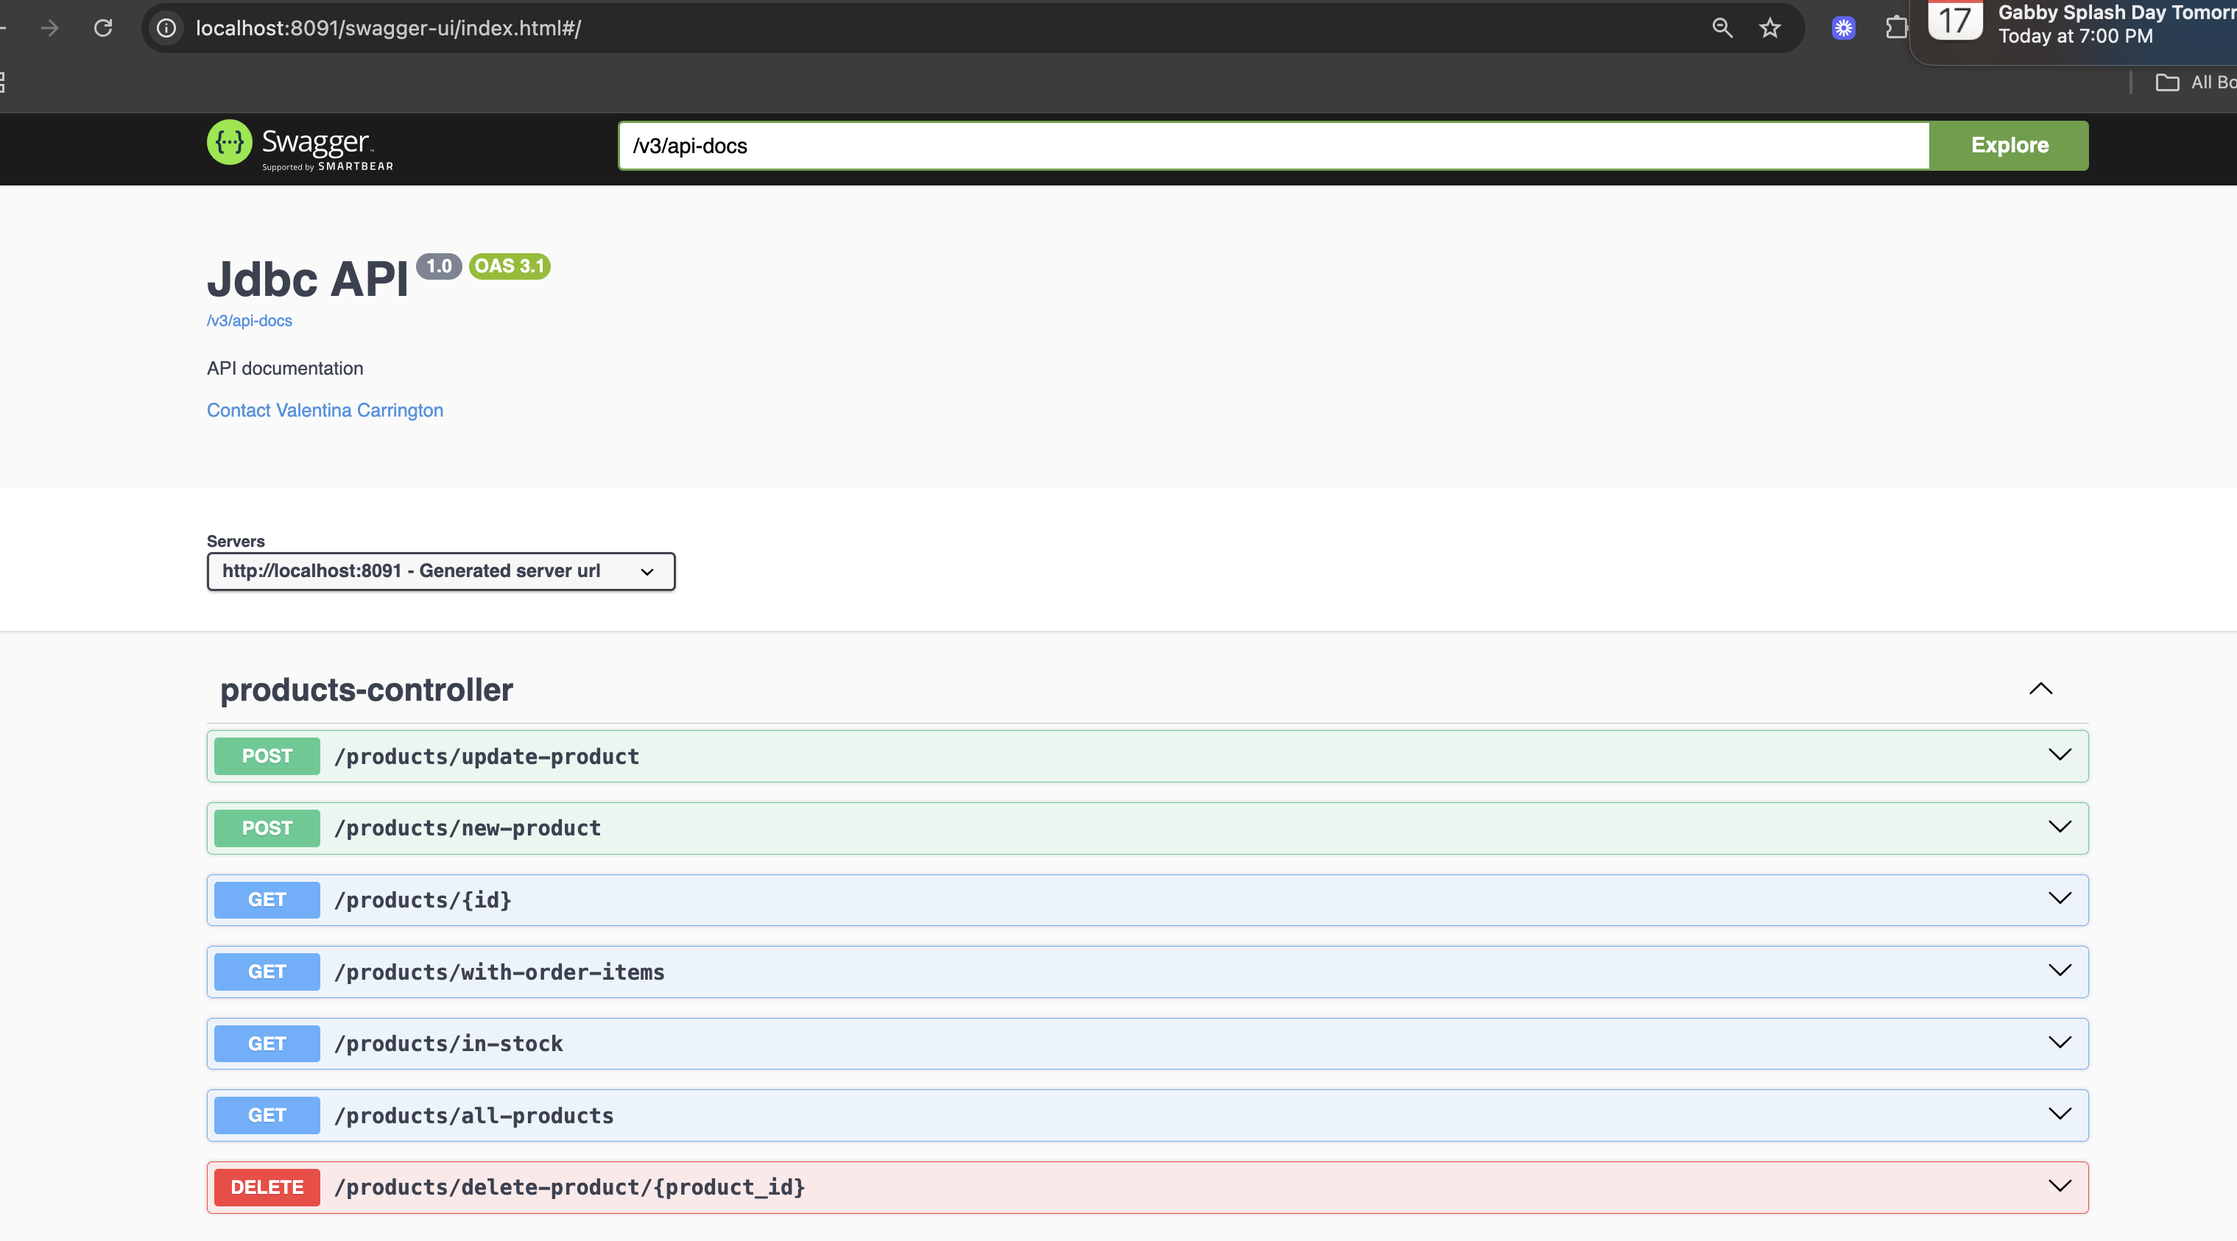
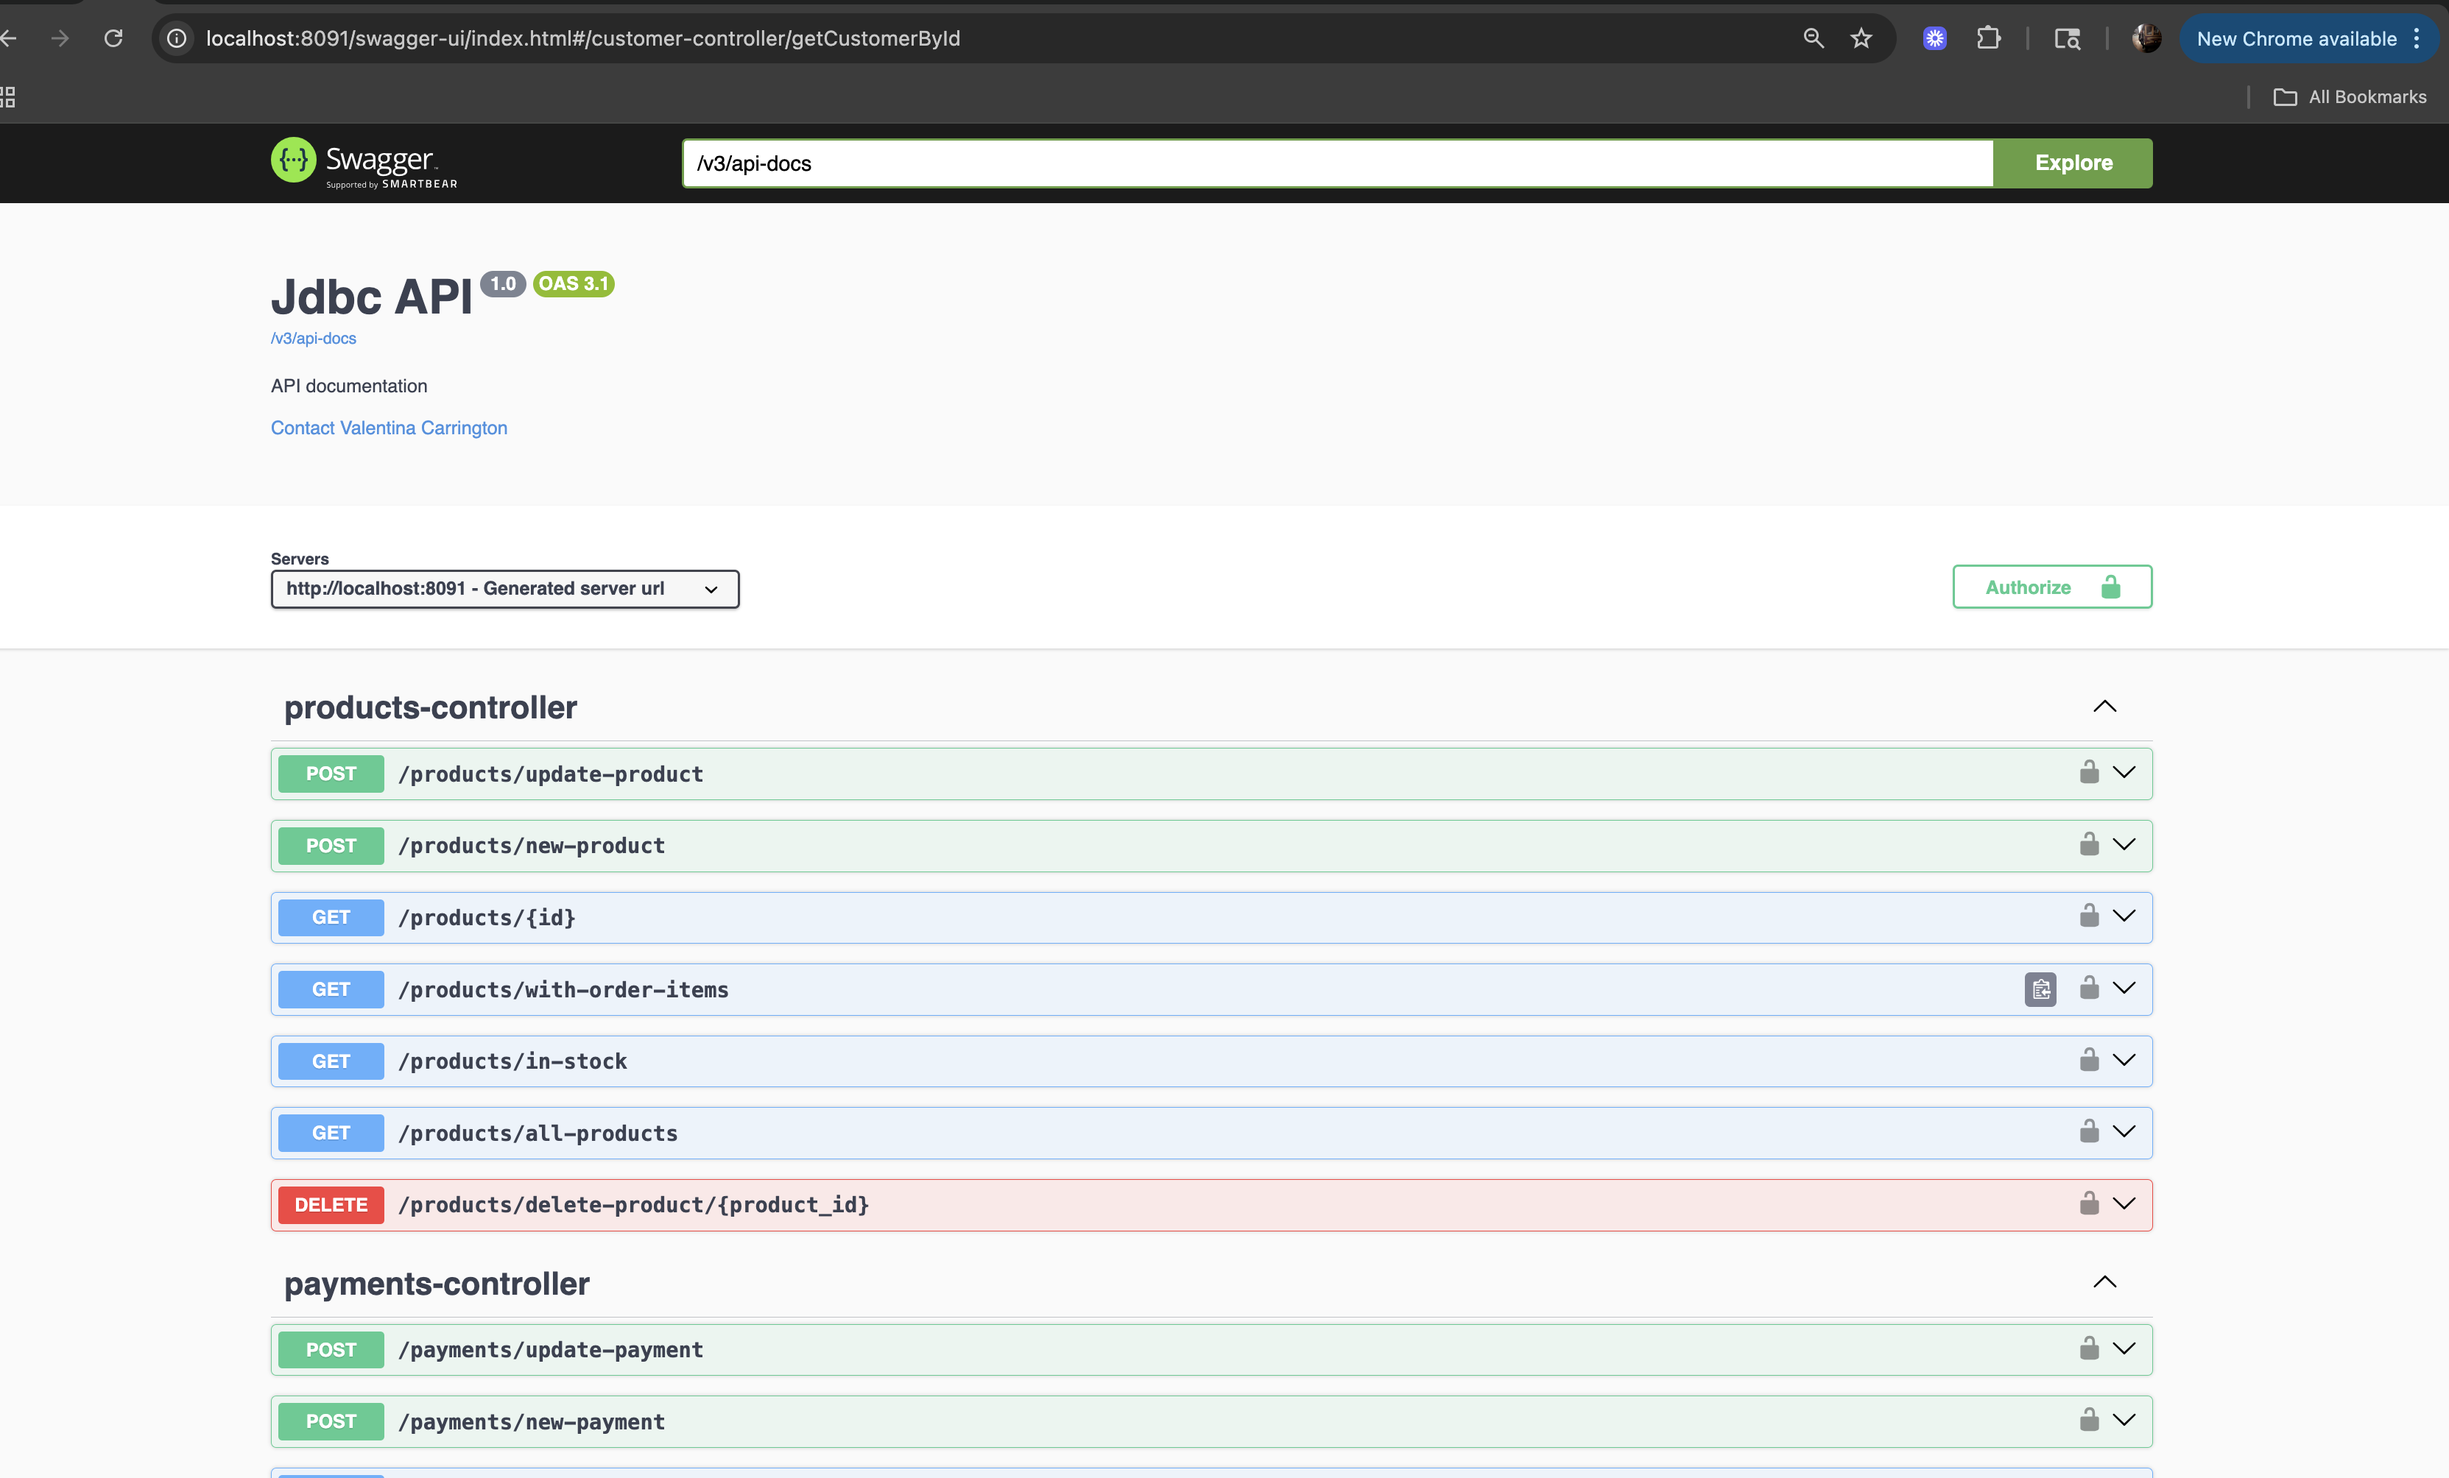
Added Auth0 authentication and authorization with JWT validation

diff --git a/src/main/java/com/vcarrin87/jdbc_example/config/SecurityConfig.java b/src/main/java/com/vcarrin87/jdbc_example/config/SecurityConfig.java
@@ -1,0 +1,39 @@
+package com.vcarrin87.jdbc_example.config;
+
+import static org.springframework.security.config.Customizer.withDefaults;
+
+import org.springframework.context.annotation.Bean;
+import org.springframework.context.annotation.Configuration;
+import org.springframework.security.config.annotation.web.builders.HttpSecurity;
+import org.springframework.security.config.http.SessionCreationPolicy;
+import org.springframework.security.oauth2.server.resource.web.BearerTokenAuthenticationEntryPoint;
+import org.springframework.security.oauth2.server.resource.web.access.BearerTokenAccessDeniedHandler;
+import org.springframework.security.web.SecurityFilterChain;
+
+@Configuration
+public class SecurityConfig {
+
+    @Bean
+    public SecurityFilterChain securityFilterChain(HttpSecurity http) throws Exception {
+        http
+            .csrf(csrt -> csrt.disable())
+            .authorizeHttpRequests(request -> request
+                .requestMatchers("/", "/swagger-ui/**", "/v3/api-docs/**").permitAll()
+                .requestMatchers(org.springframework.http.HttpMethod.GET, "/**").hasAnyAuthority("SCOPE_ADMIN", "SCOPE_USER")
+                .requestMatchers(org.springframework.http.HttpMethod.POST, "/**").hasAuthority("SCOPE_ADMIN")
+                .requestMatchers(org.springframework.http.HttpMethod.DELETE, "/**").hasAuthority("SCOPE_ADMIN")
+                .anyRequest().authenticated()
+            )
+            .sessionManagement(session -> session.sessionCreationPolicy(SessionCreationPolicy.STATELESS))
+            .exceptionHandling(exceptions -> 
+                exceptions
+                    .authenticationEntryPoint(new BearerTokenAuthenticationEntryPoint())
+                    .accessDeniedHandler(new BearerTokenAccessDeniedHandler())
+            )
+            .oauth2ResourceServer(oauth2 -> oauth2
+                .jwt(withDefaults())
+            );
+        return http.build();
+    }
+
+}

diff --git a/src/main/java/com/vcarrin87/jdbc_example/config/OpenApiConfig.java b/src/main/java/com/vcarrin87/jdbc_example/config/OpenApiConfig.java
@@ -3,9 +3,12 @@ package com.vcarrin87.jdbc_example.config;
 import org.springframework.context.annotation.Bean;
 import org.springframework.context.annotation.Configuration;
 
+import io.swagger.v3.oas.models.Components;
 import io.swagger.v3.oas.models.OpenAPI;
 import io.swagger.v3.oas.models.info.Contact;
 import io.swagger.v3.oas.models.info.Info;
+import io.swagger.v3.oas.models.security.SecurityRequirement;
+import io.swagger.v3.oas.models.security.SecurityScheme;
 
 @Configuration
 public class OpenApiConfig {
@@ -21,6 +24,13 @@ public class OpenApiConfig {
                 .title("Jdbc API")
                 .version("1.0")
                 .description("API documentation")
-                .contact(new Contact().name("Valentina Carrington").email("vcarrin87@gmail.com")));
+                .contact(new Contact().name("Valentina Carrington").email("vcarrin87@gmail.com")))
+            .components(new Components()
+                .addSecuritySchemes("bearerAuth",
+                    new SecurityScheme()
+                        .type(SecurityScheme.Type.HTTP)
+                        .scheme("bearer")
+                        .bearerFormat("JWT")))
+            .addSecurityItem(new SecurityRequirement().addList("bearerAuth"));
     }
 }

diff --git a/src/main/java/com/vcarrin87/jdbc_example/services/OrdersService.java b/src/main/java/com/vcarrin87/jdbc_example/services/OrdersService.java
@@ -10,6 +10,7 @@ import org.springframework.transaction.annotation.Transactional;
 
 import com.vcarrin87.jdbc_example.models.OrderItems;
 import com.vcarrin87.jdbc_example.models.Orders;
+import com.vcarrin87.jdbc_example.models.Payments;
 import com.vcarrin87.jdbc_example.repository.InventoryRepository;
 import com.vcarrin87.jdbc_example.repository.OrderItemsRepository;
 import com.vcarrin87.jdbc_example.repository.OrdersRepository;
@@ -140,7 +141,12 @@ public class OrdersService {
         // Add payment
         Timestamp paymentDate = new Timestamp(System.currentTimeMillis());
         log.info("Payment date: {}", paymentDate);
-        paymentsRepository.save(newOrderId, totalAmount, paymentDate, "CREDIT_CARD");
+        Payments payment = new Payments();
+        payment.setOrderId(newOrderId);
+        payment.setAmount(totalAmount);
+        payment.setPaymentDate(paymentDate);
+        payment.setPaymentMethod("CREDIT_CARD");
+        paymentsRepository.save(payment);
     
         log.info("Order placed successfully: {}", order);
     }

diff --git a/src/main/java/com/vcarrin87/jdbc_example/repository/PaymentsRepository.java b/src/main/java/com/vcarrin87/jdbc_example/repository/PaymentsRepository.java
@@ -41,9 +41,9 @@ public class PaymentsRepository {
         return jdbcTemplate.queryForObject(sql, paymentsRowMapper, paymentId);
     }
 
-    public int save(int orderId, double amount, Timestamp paymententDate, String paymentMethod) {
+    public int save(Payments payment) {
         String sql = "INSERT INTO payments (order_id, amount, payment_date, payment_method) VALUES (?, ?, ?, ?)";
-        return jdbcTemplate.update(sql, orderId, amount, paymententDate, paymentMethod);
+        return jdbcTemplate.update(sql, payment.getOrderId(), payment.getAmount(), payment.getPaymentDate(), payment.getPaymentMethod());
     }
 
     public int update(Payments payment) {

diff --git a/src/main/java/com/vcarrin87/jdbc_example/config/SwaggerRedirectConfig.java b/src/main/java/com/vcarrin87/jdbc_example/config/SwaggerRedirectConfig.java
@@ -1,0 +1,15 @@
+package com.vcarrin87.jdbc_example.config;
+
+import org.springframework.context.annotation.Configuration;
+import org.springframework.web.servlet.config.annotation.ViewControllerRegistry;
+import org.springframework.web.servlet.config.annotation.WebMvcConfigurer;
+
+@Configuration
+public class SwaggerRedirectConfig implements WebMvcConfigurer {
+
+    @Override
+    public void addViewControllers(ViewControllerRegistry registry) {
+        registry.addRedirectViewController("/", "/swagger-ui/index.html");
+    }
+
+}

diff --git a/README.md b/README.md
@@ -4,7 +4,37 @@ This project is a demonstration how to use Java with PostgreSQL with JDBC and Li
 * The project connects to PostgreSQL with Liquibase. 
 * During testing, it connects to H2 in-memory database with test data to run unit tests.
 
-# Getting Started
+## Security with Auth0 Integration
+This project uses Auth0 for Machine-to-Machine (M2M) authentication and authorization. Auth0 issues a JWT (JSON Web Token) to clients, which is then used to access protected API endpoints.
+
+**How it works:**
+1. The client application authenticates with Auth0 using its client credentials (client ID and secret).
+2. Auth0 returns a JWT access token if the credentials are valid.
+3. The client includes this JWT in the `Authorization: Bearer <token>` header of each API request.
+4. The backend validates the JWT signature and claims (such as audience and issuer) to ensure the request is authenticated and authorized.
+
+**Key points:**
+- Only clients with valid Auth0 credentials can obtain a JWT and access the API.
+- JWT tokens are validated on every request for authenticity and required scopes/roles.
+- Sensitive endpoints are protected using security filters that check for valid JWTs.
+
+
+**Example request:**
+```http
+GET /api/customers
+Authorization: Bearer <your-jwt-token>
+```
+
+The following screenshots illustrate the different access levels provided by each client.
+
+### Custom API
+![auth0 demo app](src/main/resources/static/demo-app.png)
+
+### Client with READ Access
+![client read access](src/main/resources/static/client-read-access.png)
+
+### Client with ADMIN Access
+![client admin  access](src/main/resources/static/client-admin-access.png)
 
 ## JdbcTemplate
 
